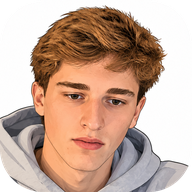
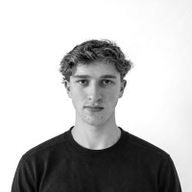
Neón se apaga por completo en el corte, certificados se agrandan en la página, íconos con foto
Claude-Session: https://claude.ai/code/session_01DYvLDrG6E4nKeTnPbicR5p

diff --git a/src/components/Scene.tsx b/src/components/Scene.tsx
@@ -275,21 +275,7 @@ export function Scene({ onEnter }: { onEnter: (route: Route) => void }) {
           </svg>
 
           {/* Corte de luz: la misma escena con todo apagado, que aparece con un parpadeo */}
-          {zoom && (
-            <motion.div
-              className="pointer-events-none absolute inset-0"
-              initial={{ opacity: 0 }}
-              animate={{ opacity: [0, 1, 0.15, 1, 0.45, 1] }}
-              transition={{ duration: CUT.flicker, times: [0, 0.12, 0.24, 0.4, 0.55, 0.7], ease: 'linear' }}
-            >
-              <svg viewBox={`0 0 ${SCENE_W} ${SCENE_H}`} preserveAspectRatio="xMidYMid meet" className="h-full w-full">
-                <g mask="url(#edgeX)">
-                  <image href={OFF_SRC} width={SCENE_W} height={SCENE_H} preserveAspectRatio="xMidYMid slice" mask="url(#edgeY)" />
-                </g>
-                <rect width={SCENE_W} height={SCENE_H} fill="url(#vignette)" />
-              </svg>
-            </motion.div>
-          )}
+          {zoom && <OffLayer />}
 
           {/* 2. Capó que se abre de verdad (cuadros de video), en su propia capa */}
           <motion.div
@@ -303,6 +289,10 @@ export function Scene({ onEnter }: { onEnter: (route: Route) => void }) {
           {/* Carpeta: se levanta y da vuelta la hoja (zona Contacto) */}
           <SpriteAnimation sheet={hojaSheet} active={hovered === contactIndex} mode="oneshot" duration={1.9} loadDelay={2700} />
           </motion.div>
+
+          {/* El apagado también va arriba de las animaciones (si no, el neón queda prendido en los cuadros
+              del capó). Si el capó está abierto, se deja ver solo el auto. */}
+          {zoom && <OffLayer clipCar={hoodOpen} />}
 
           <motion.div
             className="pointer-events-none absolute inset-0"
@@ -480,5 +470,38 @@ export function Scene({ onEnter }: { onEnter: (route: Route) => void }) {
         onAnimationComplete={() => zoom && go(zoom.route)}
       />
     </div>
+  )
+}
+
+// Silueta del auto con el capó abierto (más ajustada que la zona cliqueable, para no dejar ver el neón)
+const CAR_POLY = '0,295 120,300 180,350 465,100 476,104 498,168 514,239 600,420 715,470 722,640 665,700 625,800 360,805 0,895'
+const FLICKER_TIMES = [0, 0.12, 0.24, 0.4, 0.55, 0.7]
+
+/** Capa con el taller apagado, que entra con parpadeo. clipCar = todo menos el auto. */
+function OffLayer({ clipCar = false }: { clipCar?: boolean }) {
+  const id = clipCar ? 'offClipCar' : undefined
+  return (
+    <motion.div
+      className="pointer-events-none absolute inset-0"
+      initial={{ opacity: 0 }}
+      animate={{ opacity: [0, 1, 0.15, 1, 0.45, 1] }}
+      transition={{ duration: 0.6, times: FLICKER_TIMES, ease: 'linear' }}
+    >
+      <svg viewBox={`0 0 ${SCENE_W} ${SCENE_H}`} preserveAspectRatio="xMidYMid meet" className="h-full w-full">
+        {id && (
+          <defs>
+            <clipPath id={id}>
+              <path clipRule="evenodd" fillRule="evenodd" d={`M-50,-50H${SCENE_W + 50}V${SCENE_H + 50}H-50Z M${CAR_POLY.trim().split(/\s+/).join(' L')}Z`} />
+            </clipPath>
+          </defs>
+        )}
+        <g clipPath={id ? `url(#${id})` : undefined}>
+          <g mask="url(#edgeX)">
+            <image href={OFF_SRC} width={SCENE_W} height={SCENE_H} preserveAspectRatio="xMidYMid slice" mask="url(#edgeY)" />
+          </g>
+          <rect width={SCENE_W} height={SCENE_H} fill="url(#vignette)" />
+        </g>
+      </svg>
+    </motion.div>
   )
 }

diff --git a/src/pages/Garage.tsx b/src/pages/Garage.tsx
@@ -1,5 +1,5 @@
 import { useEffect, useRef, useState } from 'react'
-import { motion, useInView } from 'motion/react'
+import { AnimatePresence, motion, useInView } from 'motion/react'
 import { ArrowUp, RotateCcw } from 'lucide-react'
 import { PageShell, Reveal } from './PageShell'
 import { AtlasHero } from '@/components/AtlasHero'
@@ -246,6 +246,14 @@ function SectionHead({ n, title, text }: { n: string; title: string; text?: stri
 }
 
 export function Garage() {
+  const [openCert, setOpenCert] = useState<number | null>(null)
+  useEffect(() => {
+    if (openCert === null) return
+    const onKey = (e: KeyboardEvent) => e.key === 'Escape' && setOpenCert(null)
+    window.addEventListener('keydown', onKey)
+    return () => window.removeEventListener('keydown', onKey)
+  }, [openCert])
+
   return (
     <PageShell eyebrow="" hero={<AtlasHero />} chromeDelay={1.6}>
       {/* Intro: arranca en negro y aparece la escena ASCII de fondo */}
@@ -343,14 +351,14 @@ export function Garage() {
         <div className="grid gap-4 sm:grid-cols-2">
           {credentials.map((c, i) => (
             <Reveal key={c.title} delay={i * 0.08}>
-              <a
-                href={c.img}
-                target="_blank"
-                rel="noreferrer"
-                className="group block h-full overflow-hidden rounded-2xl border border-white/10 transition-colors hover:border-warm/40"
+              <button
+                type="button"
+                onClick={() => setOpenCert(i)}
+                className="group block h-full w-full cursor-zoom-in overflow-hidden rounded-2xl border border-white/10 text-left transition-colors hover:border-warm/40"
               >
                 <div className="aspect-[4/3] overflow-hidden bg-white/5">
-                  <img
+                  <motion.img
+                    layoutId={`cert-${i}`}
                     src={c.img}
                     alt={`Certificado ${c.title} · ${c.org}`}
                     loading="lazy"
@@ -364,11 +372,35 @@ export function Garage() {
                   <h3 className="mt-3 font-display text-2xl font-bold">{c.title}</h3>
                   <p className="mt-2 text-sm text-cream/60">{c.text}</p>
                 </div>
-              </a>
+              </button>
             </Reveal>
           ))}
         </div>
       </section>
+
+      {/* Certificado agrandado en la misma página */}
+      <AnimatePresence>
+        {openCert !== null && (
+          <motion.div
+            key="cert"
+            className="fixed inset-0 z-[60] flex cursor-zoom-out items-center justify-center bg-black/85 p-4 backdrop-blur-sm sm:p-10"
+            initial={{ opacity: 0 }}
+            animate={{ opacity: 1 }}
+            exit={{ opacity: 0 }}
+            transition={{ duration: 0.3 }}
+            onClick={() => setOpenCert(null)}
+          >
+            <motion.img
+              layoutId={`cert-${openCert}`}
+              src={credentials[openCert].img}
+              alt={`Certificado ${credentials[openCert].title}`}
+              className="max-h-full max-w-full rounded-xl object-contain shadow-2xl"
+              transition={{ type: 'spring', stiffness: 260, damping: 30 }}
+            />
+            <span className="absolute right-5 top-5 font-mono text-[10px] uppercase tracking-[0.2em] text-cream/60">Cerrar ✕</span>
+          </motion.div>
+        )}
+      </AnimatePresence>
     </PageShell>
   )
 }
